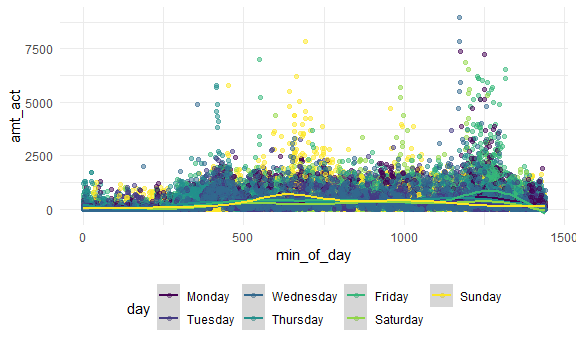
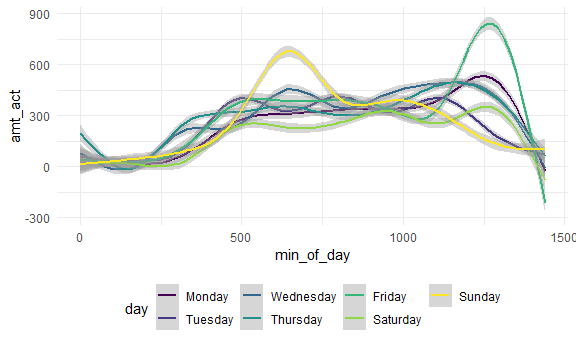
some modification

diff --git a/p8105_hw3_yl4604.md b/p8105_hw3_yl4604.md
@@ -199,14 +199,14 @@ geom_line()
 
 <img src="p8105_hw3_yl4604_files/figure-markdown_github/unnamed-chunk-7-1.png" width="90%" />
 
-???trends?
+Overall, the activity amount is lower during weekend. And the activity amount on Tusesay and Wednesday are relatively stable.The man might have regular work out plan on Tusedays and wednesdays.
 
 Make a plot
 
 ``` r
 accel_df %>%
   ggplot(aes(x = min_of_day, y = amt_act, color = day)) +
-  geom_point(alpha = .5) +
+  #geom_point(alpha = .5) +
   geom_smooth()
 ```
 
@@ -218,7 +218,7 @@ accel_df %>%
   #geom_line(alpha = .5)
 ```
 
-???
+One obvious trend observed from here is that during mid-night, activity amount is lower than daytime. The two peaks in the plot indicating that on saturday morning and sunday night, the man is morw active.
 
 Problem 3
 ---------
@@ -287,18 +287,26 @@ ny_noaa_df %>%
 
 According to the boxplot, average max temperatures in July are significantly higher than January in each station across years, which is faily reasonalble. There are some outliers.
 
-tmax vs tmin ???
+tmax vs tmin
 
 ``` r
 tmax_vx_tmin = 
   ny_noaa_df %>% 
   ggplot(aes(x = tmin, y = tmax)) +
-  geom_hex()
+  geom_hex() +
+  theme(legend.key.width = unit(1, 'cm'))
 
-snow_fall_df = 
+snow_fall_plot =
   ny_noaa_df %>% 
   filter(snow > 0) %>% 
   filter(snow < 100) %>% 
   ggplot(aes(x = year, y = snow)) +
-  geom_boxplot()
+  geom_boxplot() +
+  theme(axis.text.x = element_text(angle = 90, vjust = 0.5, hjust = 1))
+
+ tmax_vx_tmin / snow_fall_plot
 ```
+
+    ## Warning: Removed 1136276 rows containing non-finite values (stat_binhex).
+
+<img src="p8105_hw3_yl4604_files/figure-markdown_github/unnamed-chunk-12-1.png" width="90%" />
